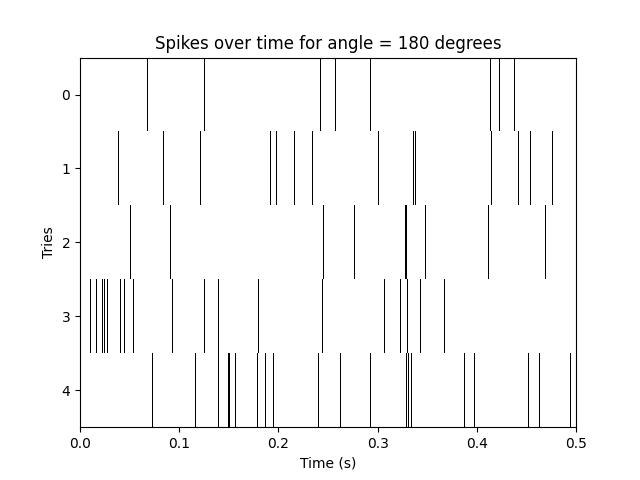
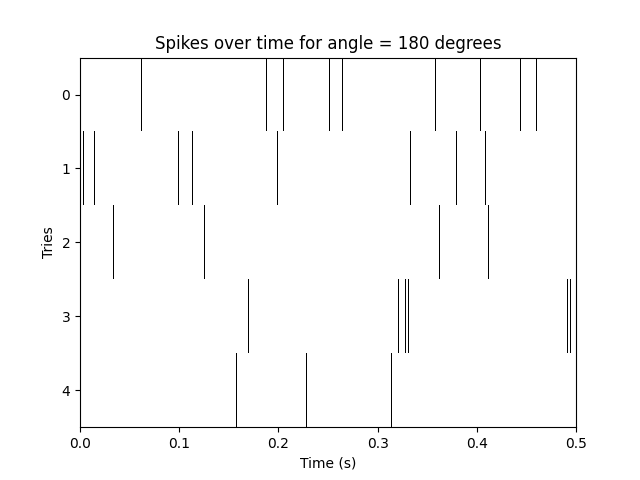
m_neurons.py created

diff --git a/neuron.py b/neuron.py
@@ -6,11 +6,6 @@ import numpy as np
 TAU = 10 * (10**-3) # 10 ms
 RM = 4 * (10**6) # 4 MOhm
 I_AMP = 0.1 * (10**-6) # 0.1 µA
-DT = 0.1 * 10**-3
-
-print("Tau:", TAU)
-print("Rm", RM)
-print("Iamp:", I_AMP)
 
 # neuron class
 class Neuron():
@@ -22,7 +17,6 @@ class Neuron():
         self.threshold = threshold
         self.max_freq = max_freq
         self.PA = False
-        print("Seuil:", self.threshold)
 
     def V(self, t, n_pa):
         a = -1/TAU
@@ -55,79 +49,3 @@ class Neuron():
     def reset(self):
         self.offset_t = 0
         self.v0 = 0
-    
-
-# PARTIE I
-ANGLE = 180
-neuron = Neuron(ANGLE)
-
-MAX_T = 0.5
-TRIES = 5
-DIRECTIONS = 8
-ANGLES = range(0, 360, int(360/DIRECTIONS))
-LT = int(MAX_T/DT)
-T = np.linspace(0, MAX_T, LT)
-
-exp_data = {}
-
-# loop over angles
-for angle in ANGLES:
-    spikes = np.zeros(shape=(TRIES, LT))
-
-    # get EPSP frequency
-    epsp_freq = neuron.get_freq(angle)
-    # get Poisson distribution
-    p_dist = neuron.poisson_dist(epsp_freq, DT)
-
-    # loop over tries (5 tries per angle)
-    for n_try in range(TRIES):
-
-        # reset neuron's V0 and t_offset
-        neuron.reset()
-
-        # loop over time samples
-        for i, t in enumerate(T):
-            
-            # get number of incoming EPSPs
-            n_pa = np.random.choice([0, 1, 2, 3], p=p_dist)
-
-            # calculate current neuron potential
-            pot = neuron.V(t, n_pa)
-
-            # check if PA happened
-            if neuron.PA:
-                spikes[n_try, i] = 1.
-                if i > 0:
-                    spikes[n_try, i-1] = 1.
-                if i < len(T)-1:
-                    spikes[n_try, i+1] = 1.
-
-    # adding data to dict for later analysis
-    exp_data[angle] = spikes
-
-    # plot
-    plt.imshow(spikes,aspect='auto', cmap='Greys', interpolation='nearest')
-    og_xticks = plt.xticks()[0]
-    plt.xticks(og_xticks, [str(tick*10**-4) for tick in og_xticks])
-    plt.xlim(0, LT)
-    plt.xlabel('Time (s)')
-    plt.ylabel('Tries')
-    plt.title(f'Spikes over time for angle = {angle} degrees')
-    plt.savefig(f'./plots/spikes_{angle}.png')
-
-# courbe d'accord
-averages = []
-std_devs = []
-
-for angle in ANGLES:
-    data = exp_data[angle]
-    freqs = np.sum(data, axis=1) / MAX_T
-    averages.append(np.average(freqs))
-    std_devs.append(np.std(freqs))
-
-plt.clf()
-plt.errorbar(ANGLES, averages, std_devs)
-plt.xlabel('Angle (degrees)')
-plt.ylabel('Spike rate (Hz)')
-plt.title(f'Average spike rate for {ANGLE}°-neuron')
-plt.show()

diff --git a/m_neurons.py b/m_neurons.py
@@ -1,0 +1,69 @@
+from neuron import Neuron
+import numpy as np
+import matplotlib.pyplot as plt
+
+def rand_angle():
+    return np.random.random() * 360
+
+M = 30
+neurons = []
+for i in range(M):
+    neurons.append(Neuron(i*13))
+
+RANDOM_ANGLE = 0 #rand_angle()
+print(RANDOM_ANGLE)
+
+TRIES = 5
+MAX_T = 0.5
+DT = 0.1 * 10**-3
+LT = int(MAX_T/DT)
+T = np.linspace(0, MAX_T, LT)
+
+vectors = []
+
+for n, neuron in enumerate(neurons):
+    print("Neuron No.", n+1)
+    spikes = np.zeros(shape=(TRIES, LT))
+
+    # get EPSP frequency
+    epsp_freq = neuron.get_freq(RANDOM_ANGLE)
+    # get Poisson distribution
+    p_dist = neuron.poisson_dist(epsp_freq, DT)
+
+    # loop over tries (5 tries per angle)
+    for n_try in range(TRIES):
+
+        # reset neuron's V0 and t_offset
+        neuron.reset()
+
+        # loop over time samples
+        for i, t in enumerate(T):
+            
+            # get number of incoming EPSPs
+            n_pa = np.random.choice([0, 1, 2, 3], p=p_dist)
+
+            # calculate current neuron potential
+            pot = neuron.V(t, n_pa)
+
+            # check if PA happened
+            if neuron.PA:
+                spikes[n_try, i] = 1
+
+    # vector decomposition
+    avg_freq = np.average(np.sum(spikes, axis=1) / MAX_T) # norm = spike frequency
+    neuron_rad = np.radians(neuron.angle)
+    x, y = np.cos(neuron_rad), np.sin(neuron_rad)
+    vectors.append([avg_freq*x, avg_freq*y]) # final vector = each coordinate times norm
+
+vectors = np.array(vectors)
+vector_sum = np.sum(vectors, axis=0)
+
+plt.axhline(0, color='k')
+plt.axvline(0, color='k')
+plt.scatter(vectors[:,0], vectors[:,1], c='white')
+plt.scatter(vector_sum[0], vector_sum[1], c='white')
+for vector in vectors:
+    plt.annotate("", (vector[0], vector[1]), (0, 0), arrowprops={"arrowstyle":'->', "color":'blue', "linewidth":2, "alpha":0.5})
+plt.annotate("", (vector_sum[0], vector_sum[1]), (0, 0), arrowprops={"arrowstyle":'->', "color":'red', "linewidth":3})
+plt.grid()
+plt.show()

diff --git a/one_neuron.py b/one_neuron.py
@@ -1,0 +1,78 @@
+import math
+import matplotlib.pyplot as plt
+import numpy as np
+from neuron import Neuron
+
+# PARTIE I
+ANGLE = 180
+neuron = Neuron(ANGLE)
+
+
+DIRECTIONS = 8
+ANGLES = range(0, 360, int(360/DIRECTIONS))
+TRIES = 5
+MAX_T = 0.5
+DT = 0.1 * 10**-3
+LT = int(MAX_T/DT)
+T = np.linspace(0, MAX_T, LT)
+
+exp_data = {}
+
+# loop over angles
+for angle in ANGLES:
+    spikes = np.zeros(shape=(TRIES, LT))
+
+    # get EPSP frequency
+    epsp_freq = neuron.get_freq(angle)
+    # get Poisson distribution
+    p_dist = neuron.poisson_dist(epsp_freq, DT)
+
+    # loop over tries (5 tries per angle)
+    for n_try in range(TRIES):
+
+        # reset neuron's V0 and t_offset
+        neuron.reset()
+
+        # loop over time samples
+        for i, t in enumerate(T):
+            
+            # get number of incoming EPSPs
+            n_pa = np.random.choice([0, 1, 2, 3], p=p_dist)
+
+            # calculate current neuron potential
+            pot = neuron.V(t, n_pa)
+
+            # check if PA happened
+            if neuron.PA:
+                spikes[n_try, i] = 1
+
+    # adding data to dict for later analysis
+    exp_data[angle] = spikes
+
+    # plot
+    # TODO thicken bars
+    plt.imshow(spikes,aspect='auto', cmap='Greys', interpolation='nearest')
+    og_xticks = plt.xticks()[0]
+    plt.xticks(og_xticks, [str(tick*10**-4) for tick in og_xticks])
+    plt.xlim(0, LT)
+    plt.xlabel('Time (s)')
+    plt.ylabel('Tries')
+    plt.title(f'Spikes over time for angle = {angle} degrees')
+    plt.savefig(f'./plots/spikes_{angle}.png')
+
+# courbe d'accord
+averages = []
+std_devs = []
+
+for angle in ANGLES:
+    data = exp_data[angle]
+    freqs = np.sum(data, axis=1) / MAX_T
+    averages.append(np.average(freqs))
+    std_devs.append(np.std(freqs))
+
+plt.clf()
+plt.errorbar(ANGLES, averages, std_devs)
+plt.xlabel('Angle (degrees)')
+plt.ylabel('Spike rate (Hz)')
+plt.title(f'Average spike rate for {ANGLE}°-neuron')
+plt.show()
